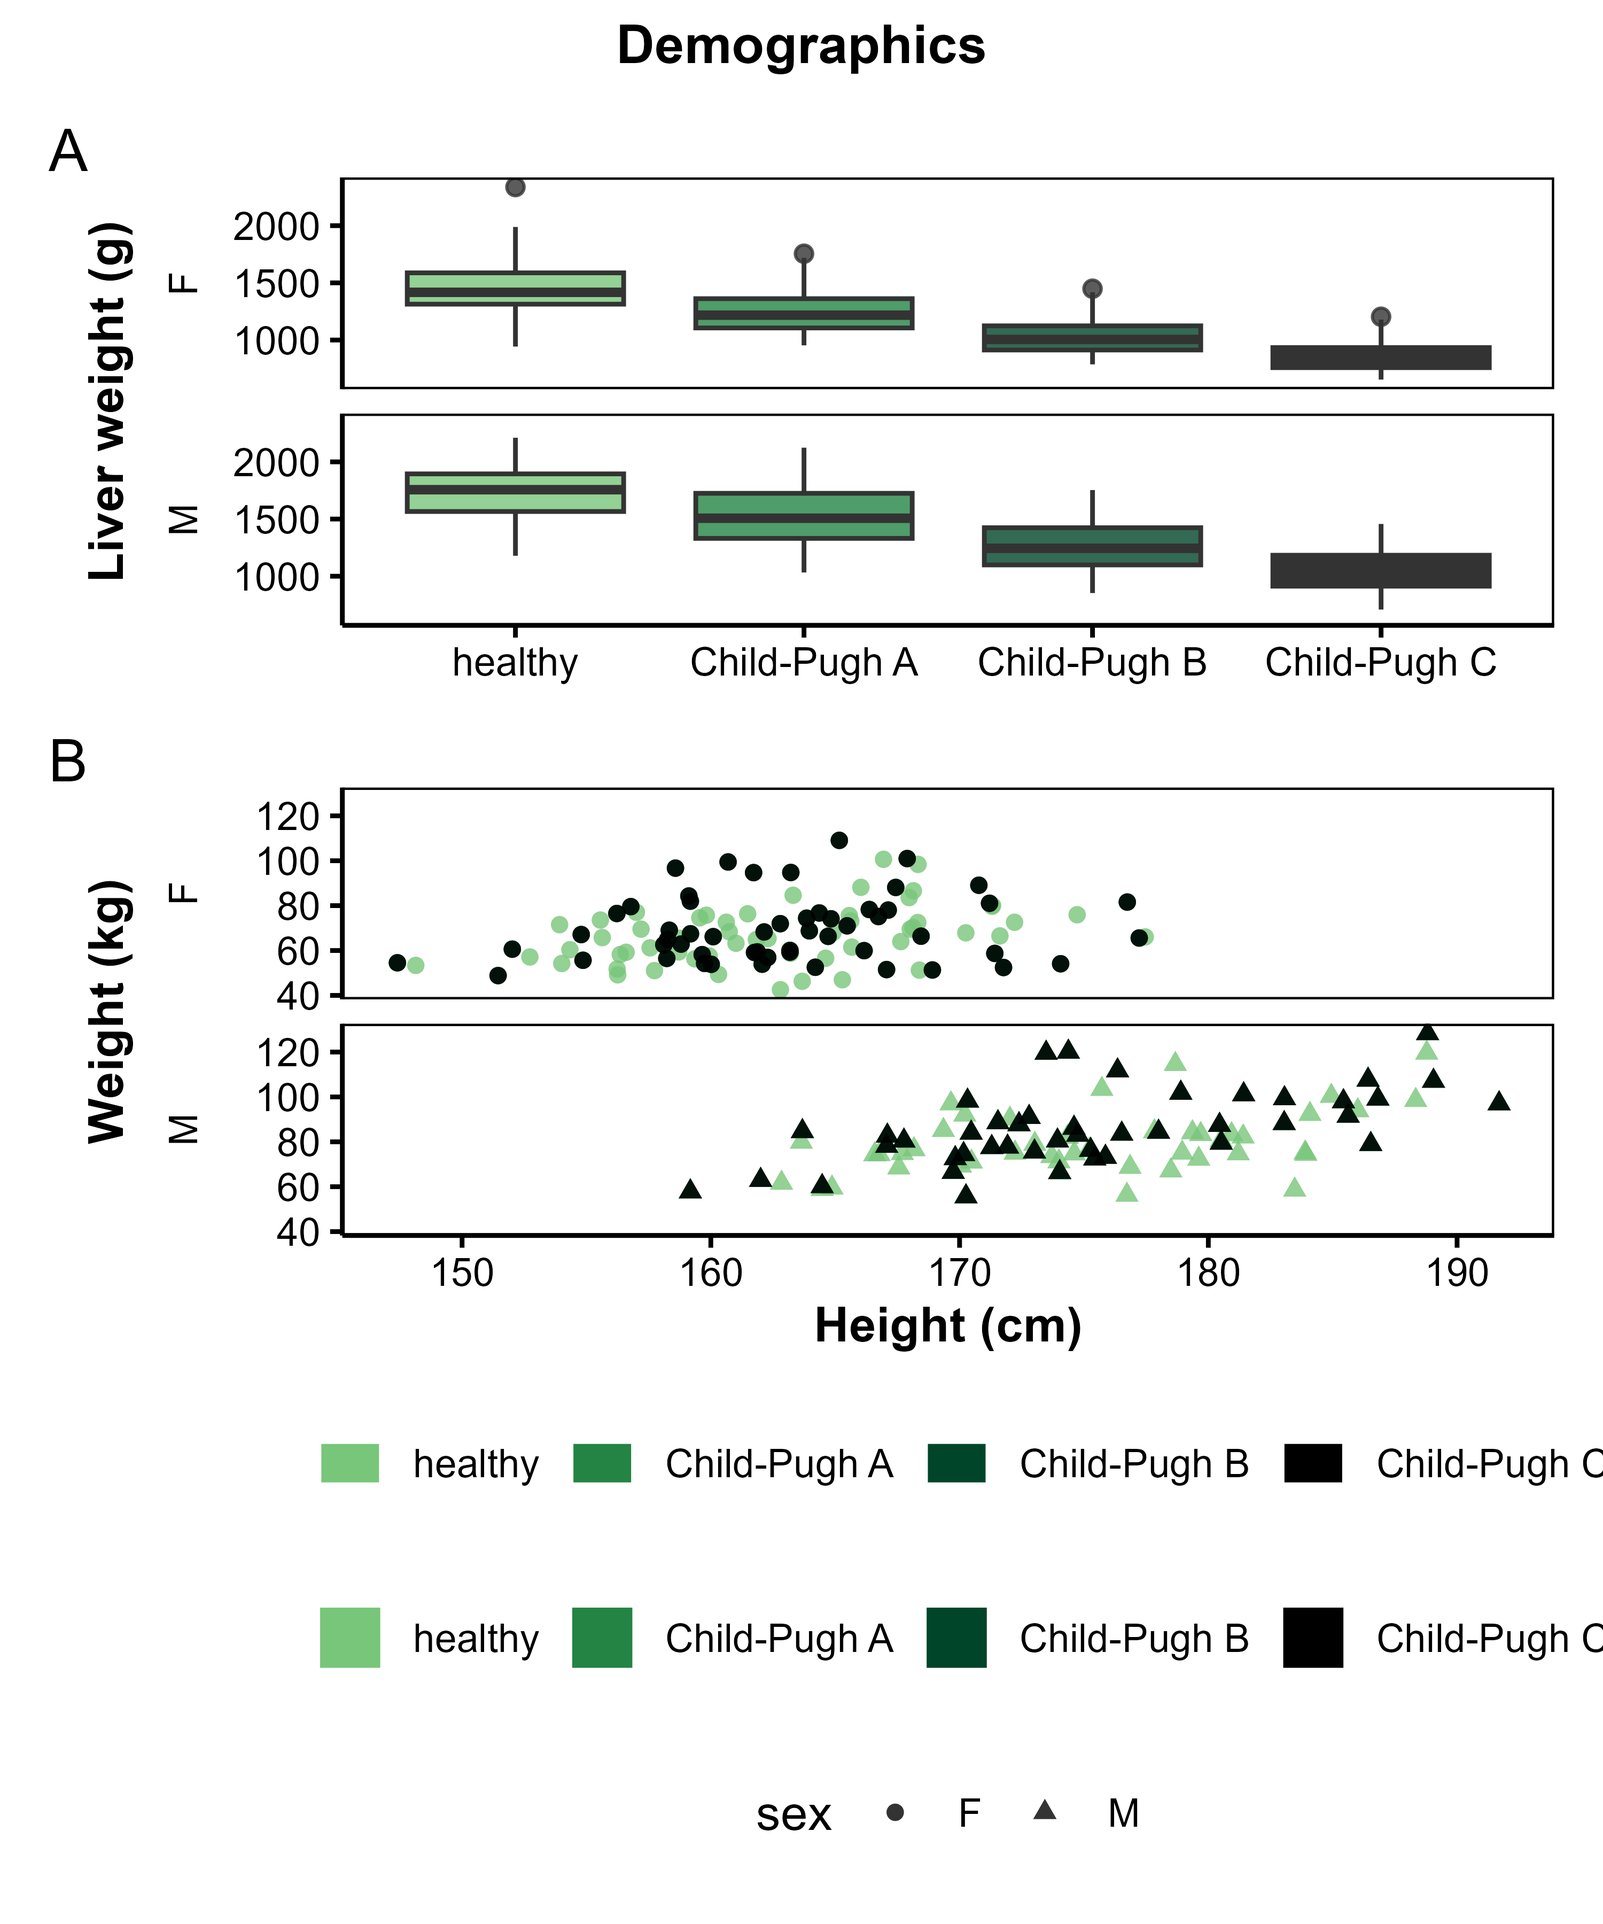
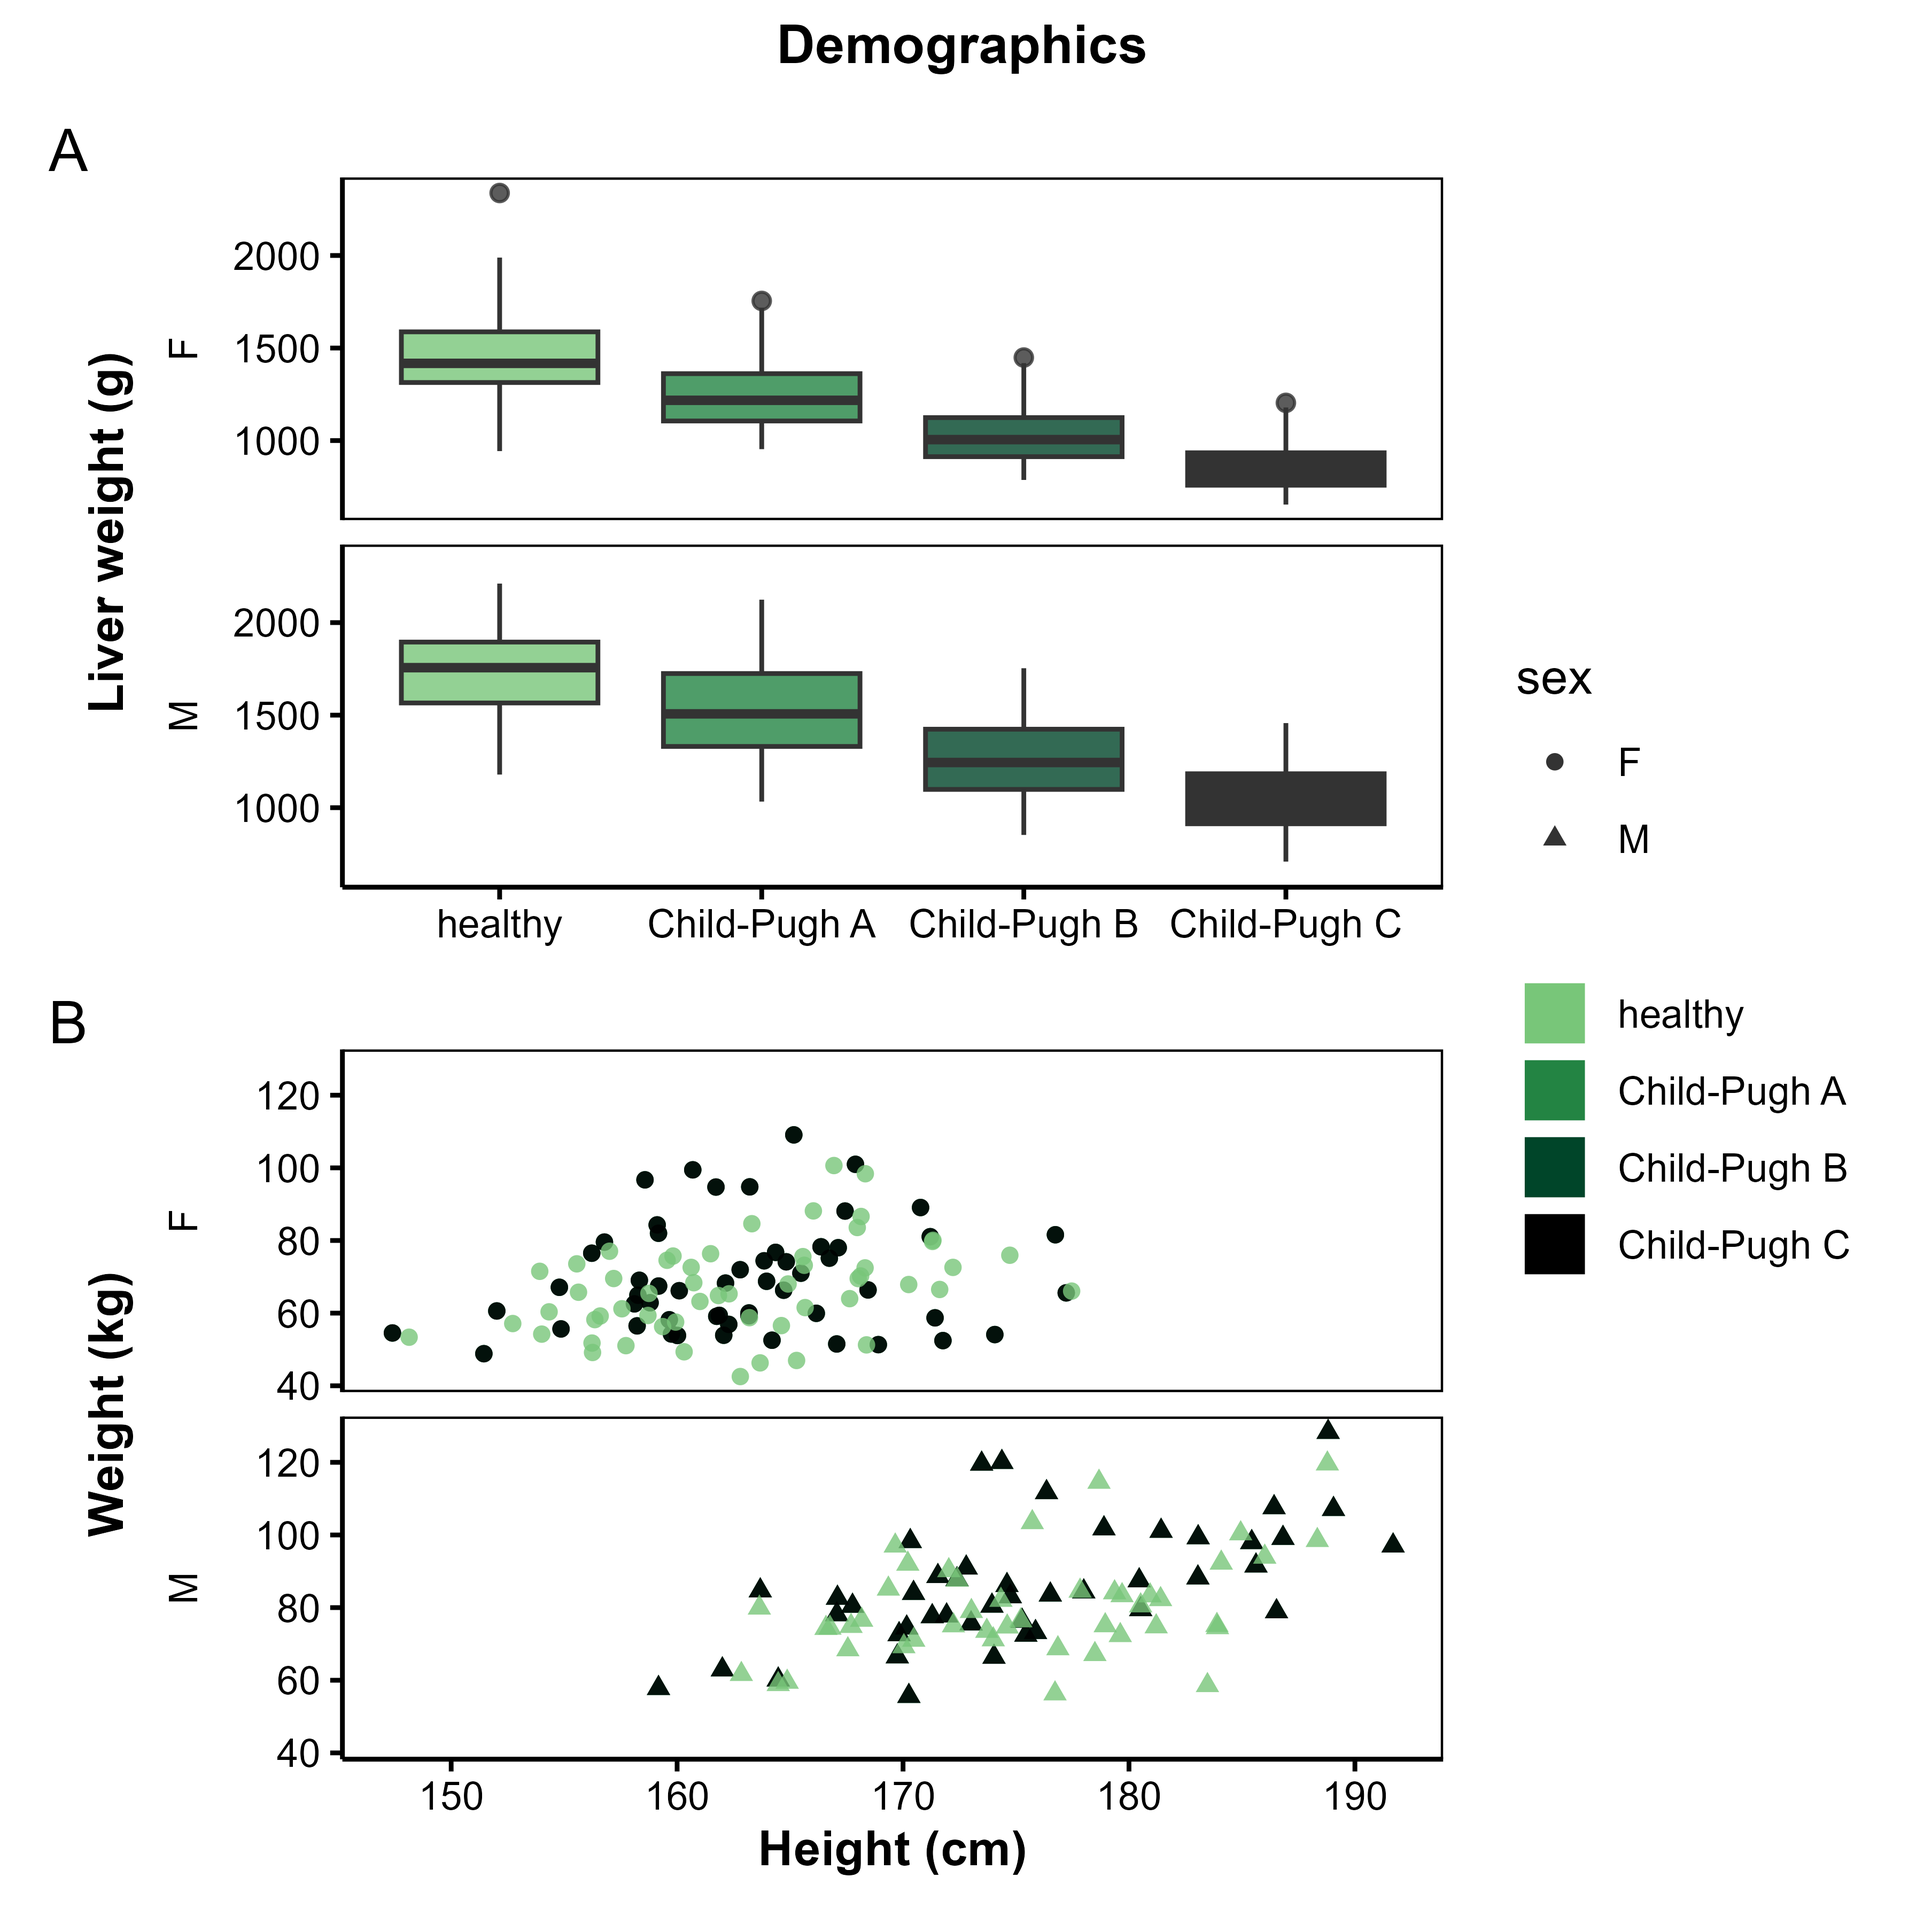
minor updates to README

diff --git a/README.md b/README.md
@@ -17,8 +17,8 @@ package are to:
 
 **Important:** The SimcypConsultancy R package is *separate* from the
 Simcyp R package and serves a different purpose. The SimcypConsultancy
-package does *not* interact with the simulator and instead is focused on
-report-writing tasks.
+package does *not* interact with the Simcyp Simulator and instead is
+focused on report-writing tasks.
 
 ## Installation
 
@@ -27,7 +27,7 @@ You can install the SimcypConsultancy package from GitHub like this:
     devtools::install_github(repo = "shirewoman2/Consultancy", 
                              upgrade = "never")
 
-Current version: 3.9.5
+Current version: 3.9.11
 
 **NOTE:** The SimcypConsultancy package requires that you have tidyverse
 loaded.
@@ -123,10 +123,8 @@ below.
 
 ![](inst/images/overviewtable2.png?raw=TRUE)
 
-To see all the possible experimental details, please see the file
-**“[All possible experimental details to use with
-extractExpDetails.csv](https://certaragbr.sharepoint.com/:x:/r/sites/SimcypPBPKConsultRFiles/Simcyp%20PBPKConsult%20R%20Files/SimcypConsultancy%20function%20examples%20and%20instructions/All%20possible%20experimental%20details%20to%20use%20with%20extractExpDetails.csv?d=wac18447b1ef557789cb09d8487781223&csf=1&web=1&e=yu3dId)”**
-(Bold text is a link) or type this into the console:
+To see all the possible experimental details, please type this into the
+console:
 
      view(ExpDetailDefinitions)
 
@@ -601,9 +599,6 @@ scatter plot of height vs. overall body weight.
                    fig_height = 6, fig_width = 5)
 
 ![](inst/images/demogplot_hi.png?raw=TRUE)
-
-*Note: We’re working on the legend but having some trouble with it
-repeating things at the moment.*
 
 For more information and examples, please see
 **[Examples-for-checking-subject-demographics.docx](https://certaragbr.sharepoint.com/:w:/r/sites/SimcypPBPKConsultRFiles/Simcyp%20PBPKConsult%20R%20Files/SimcypConsultancy%20function%20examples%20and%20instructions/Demographics%20plots/Examples-for-checking-subject-demographics.docx?d=wd07adeb48d7a4ee199b99d1e2ee083ec&csf=1&web=1&e=asP4FD)**
